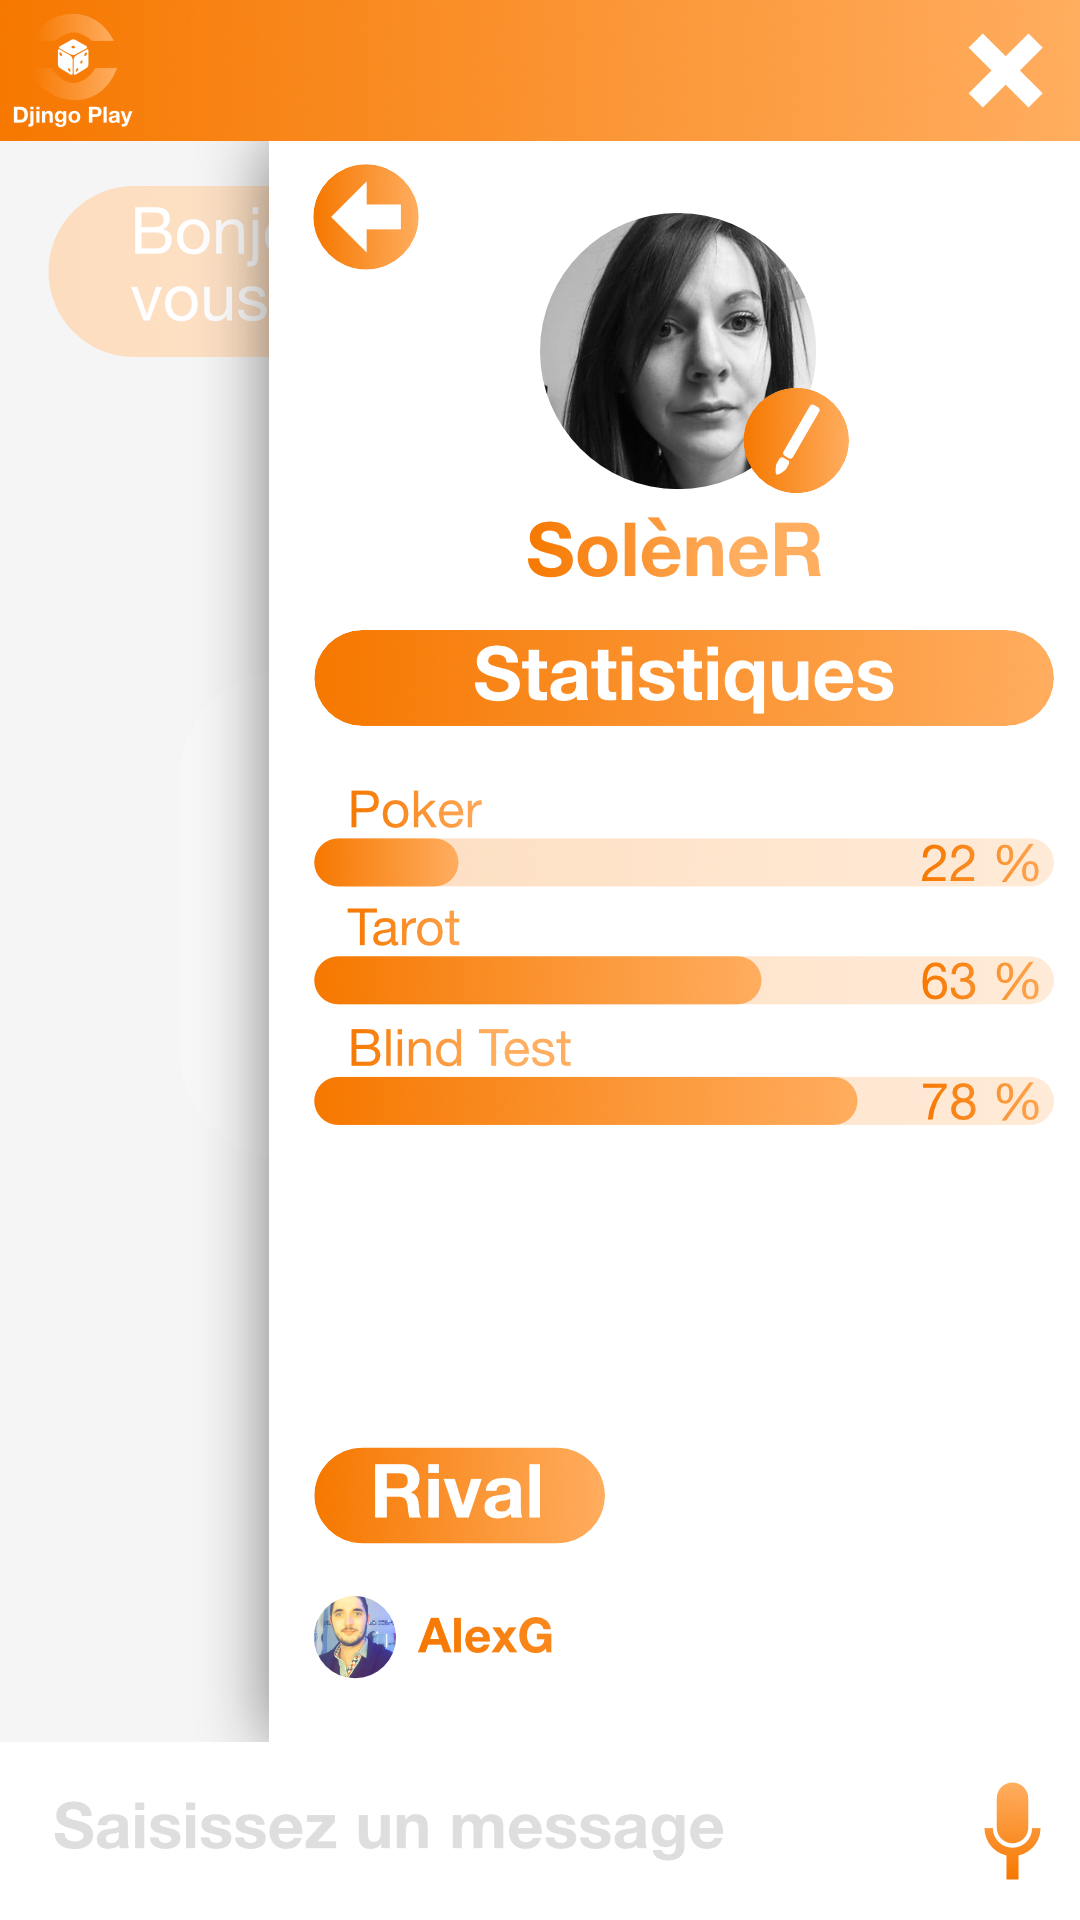
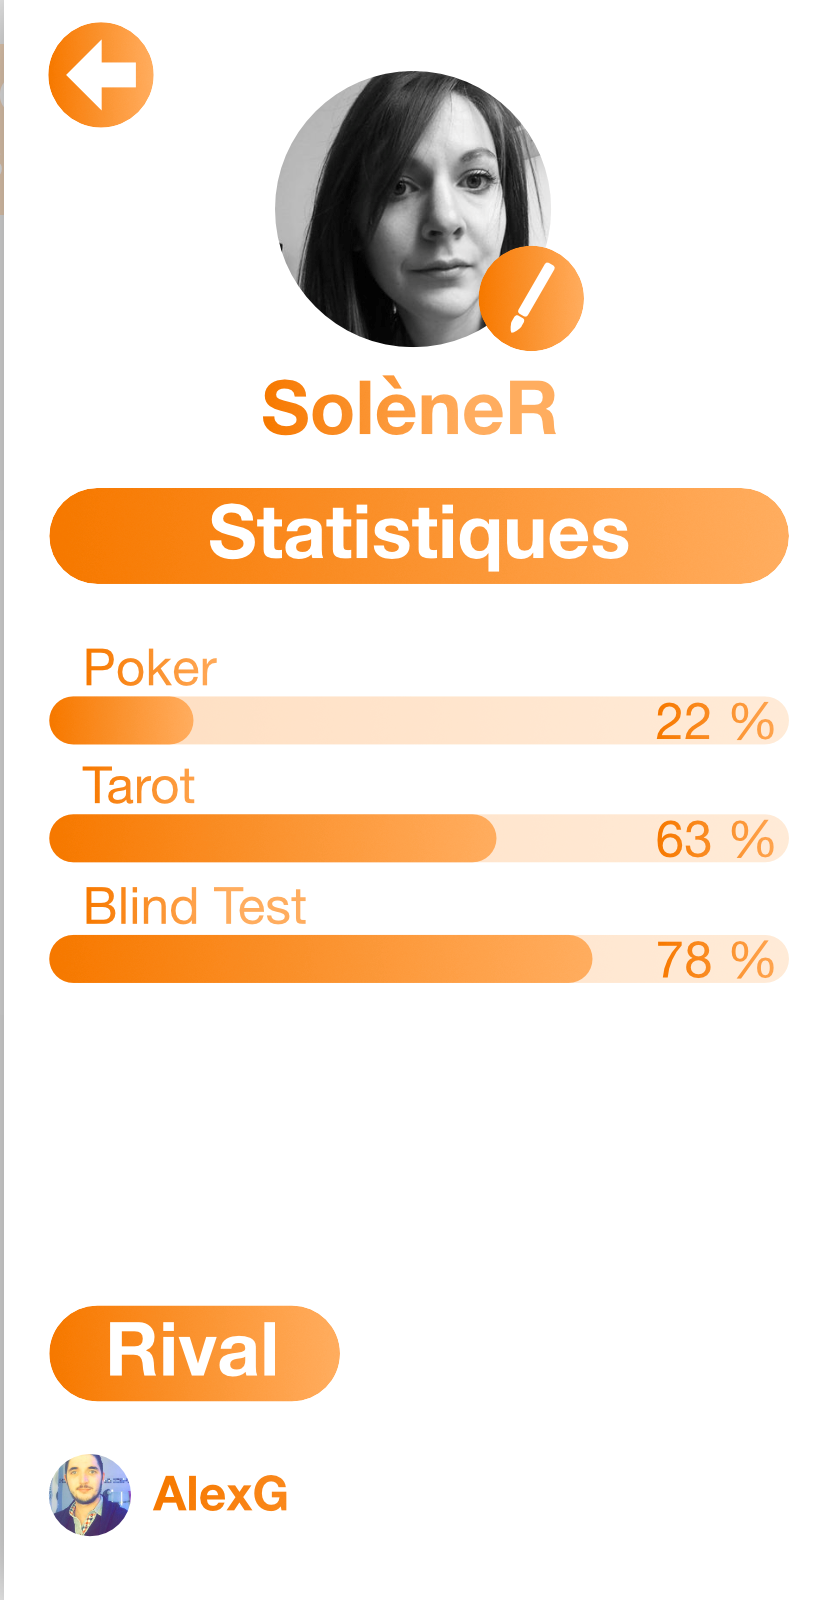
final commit

diff --git a/angular/src/app/components/panel/panel.component.html b/angular/src/app/components/panel/panel.component.html
@@ -1,9 +1,8 @@
 <div class="blurry_background">
-  {{page}}
   <div class="panel_container">
 
-    <div [ngSwitch]="page">
-      <div *ngSwitchCase="'menu'">
+    <div style="height: 100%;" [ngSwitch]="page">
+      <div style="height: 100%;" *ngSwitchCase="'menu'">
 
         <div class="panel_btn " (click)="page = 'Profil_JoueurPrincipal'">
           <img class="panel_btn-element" src="assets/images/Icon_Profil.png"> <div class="panel_btn-element"><span>Profils des joueurs</span></div>
@@ -13,47 +12,77 @@
         </div>
 
       </div>
-      <div *ngSwitchCase="'listeJeux'">
-          <div style="width:20px; height: 20px;" class="btn_vitrine" (click)="page = 'menu'">
+      <div style="height: 100%;" *ngSwitchCase="'listeJeux'">
+          <div style="width: 35px;
+          height: 34px;
+          left: 11px;
+          top: 19px;" class="btn_vitrine" (click)="page = 'menu'">
 
           </div>
-          <div style="left: 40px;width:20px; height: 20px;" class="btn_vitrine" (click)="page = 'profilJeux'">
+          <div style="left: 12px;
+          width: 226px;
+          height: 28px;
+          top: 77px;" class="btn_vitrine" (click)="page = 'profilJeux'">
             
           </div>
           <img style="width:100%; height: 100%" src="assets/images/Profil_ListeDeJeux.png">
       </div>
-      <div *ngSwitchCase="'profilJeux'">
-          <div style="width:20px; height: 20px;" class="btn_vitrine" (click)="page = 'listeJeux'">
+      <div style="height: 100%;" *ngSwitchCase="'profilJeux'">
+          <div style="width: 35px;
+          height: 34px;
+          left: 11px;
+          top: 19px;" class="btn_vitrine" (click)="page = 'listeJeux'">
 
           </div>
           <img style="width:100%; height: 100%" src="assets/images/Profil_Jeux.png">
       </div>
-      <div *ngSwitchCase="'Profil_JoueurPrincipal'">
-          <div style="width:20px; height: 20px;" class="btn_vitrine" (click)="page = 'menu'">
+      <div style="height: 100%;" *ngSwitchCase="'Profil_JoueurPrincipal'">
+          <div style="width: 33px;
+          height: 34px;
+          left: 14px;
+          top: 7px;" class="btn_vitrine" (click)="page = 'menu'">
 
           </div>
-          <div style="right: 0px;bottom:0px;width:20px; height: 20px;" class="btn_vitrine" (click)="page = 'Profil_NewPlayer'">
+          <div style="right: 8px;
+          bottom: 11px;
+          width: 57px;
+          height: 57px;" class="btn_vitrine" (click)="page = 'Profil_NewPlayer'">
 
-            </div>
+          </div>
+          <div style="left: 82px;top: 21px;width: 86px;height: 116px;" class="btn_vitrine" (click)="page = 'Profil_EditionJoueurPrincipal'">
+
+          </div>
           <img style="width:100%; height: 100%" src="assets/images/Profil_JoueurPrincipal.png">
       </div>
-      <div *ngSwitchCase="'Profil_EditionJoueurPrincipal'">
-          <div style="width:20px; height: 20px;" class="btn_vitrine" (click)="page = 'menu'">
+      <div style="height: 100%;" *ngSwitchCase="'Profil_EditionJoueurPrincipal'">
+          <div style="width: 33px;
+          height: 34px;
+          left: 14px;
+          top: 7px;" class="btn_vitrine" (click)="page = 'Profil_JoueurPrincipal'">
 
           </div>
           <img style="width:100%; height: 100%" src="assets/images/Profil_EditionJoueurPrincipal.png">
       </div>
-      <div *ngSwitchCase="'Profil_NewPlayer'">
-          <div style="width:20px; height: 20px;" class="btn_vitrine" (click)="page = 'menu'">
+      <div style="height: 100%;" *ngSwitchCase="'Profil_NewPlayer'">
+          <div style="width: 33px;
+          height: 34px;
+          left: 14px;
+          top: 7px;" class="btn_vitrine" (click)="page = 'menu'">
 
           </div>
-          <div style="right: 0px;bottom:0px;width:20px; height: 20px;" class="btn_vitrine" (click)="page = 'Profil_JoueurEnregistrer'">
+          <div style="right: 10px;
+          bottom: 110px;
+          width: 144px;
+          height: 30px;" class="btn_vitrine" (click)="page = 'Profil_JoueurEnregistrer'">
 
             </div>
           <img style="right: 0px;bottom: 0px;width:100%; height: 100%" src="assets/images/Profil_NewPlayer.png">
       </div>
-      <div *ngSwitchCase="'Profil_JoueurEnregistrer'">
-          <div style="width:20px; height: 20px;" class="btn_vitrine" (click)="page = 'menu'">
+      <div style="height: 100%;" *ngSwitchCase="'Profil_JoueurEnregistrer'">
+          <div style="width: 33px;
+          height: 34px;
+          left: 14px;
+          top: 7px;" class="btn_vitrine" (click)="page = 'Profil_NewPlayer'">
 
           </div>
           <img style="width:100%; height: 100%" src="assets/images/Profil_JoueurEnregistrer.png">

diff --git a/angular/src/app/components/panel/panel.component.scss b/angular/src/app/components/panel/panel.component.scss
@@ -8,7 +8,7 @@
 .panel_container{
     position: absolute;
     z-index: 1000;
-    width: 60%;
+    //width: 60%;
     height: 100%;
     top: 0;
     right: 0;
@@ -46,6 +46,6 @@ div.panel_btn-element{
 
 .btn_vitrine{
     position: absolute;
-    background-color: red;
+    // background-color: red;
     cursor: pointer;
 }
